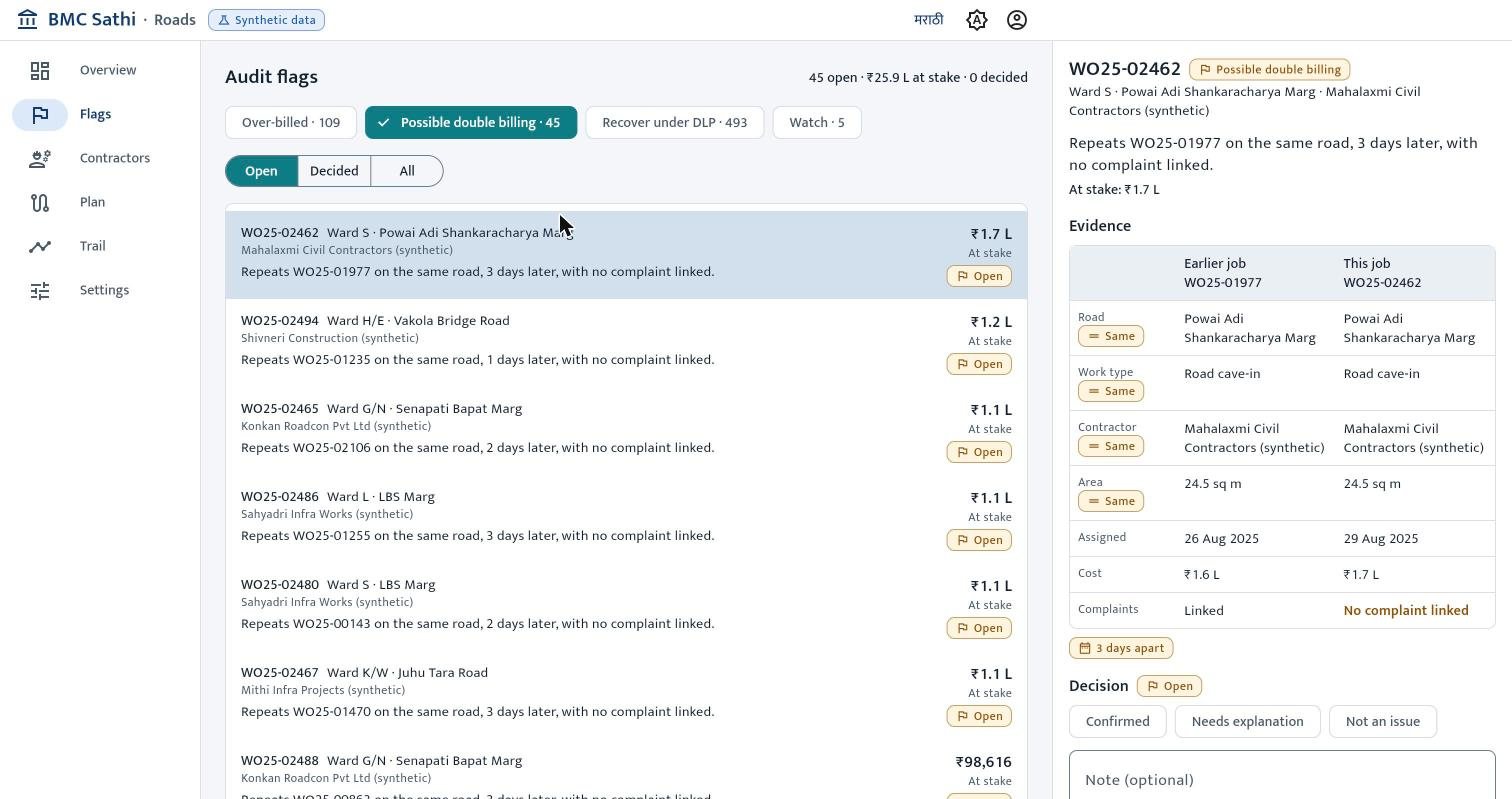
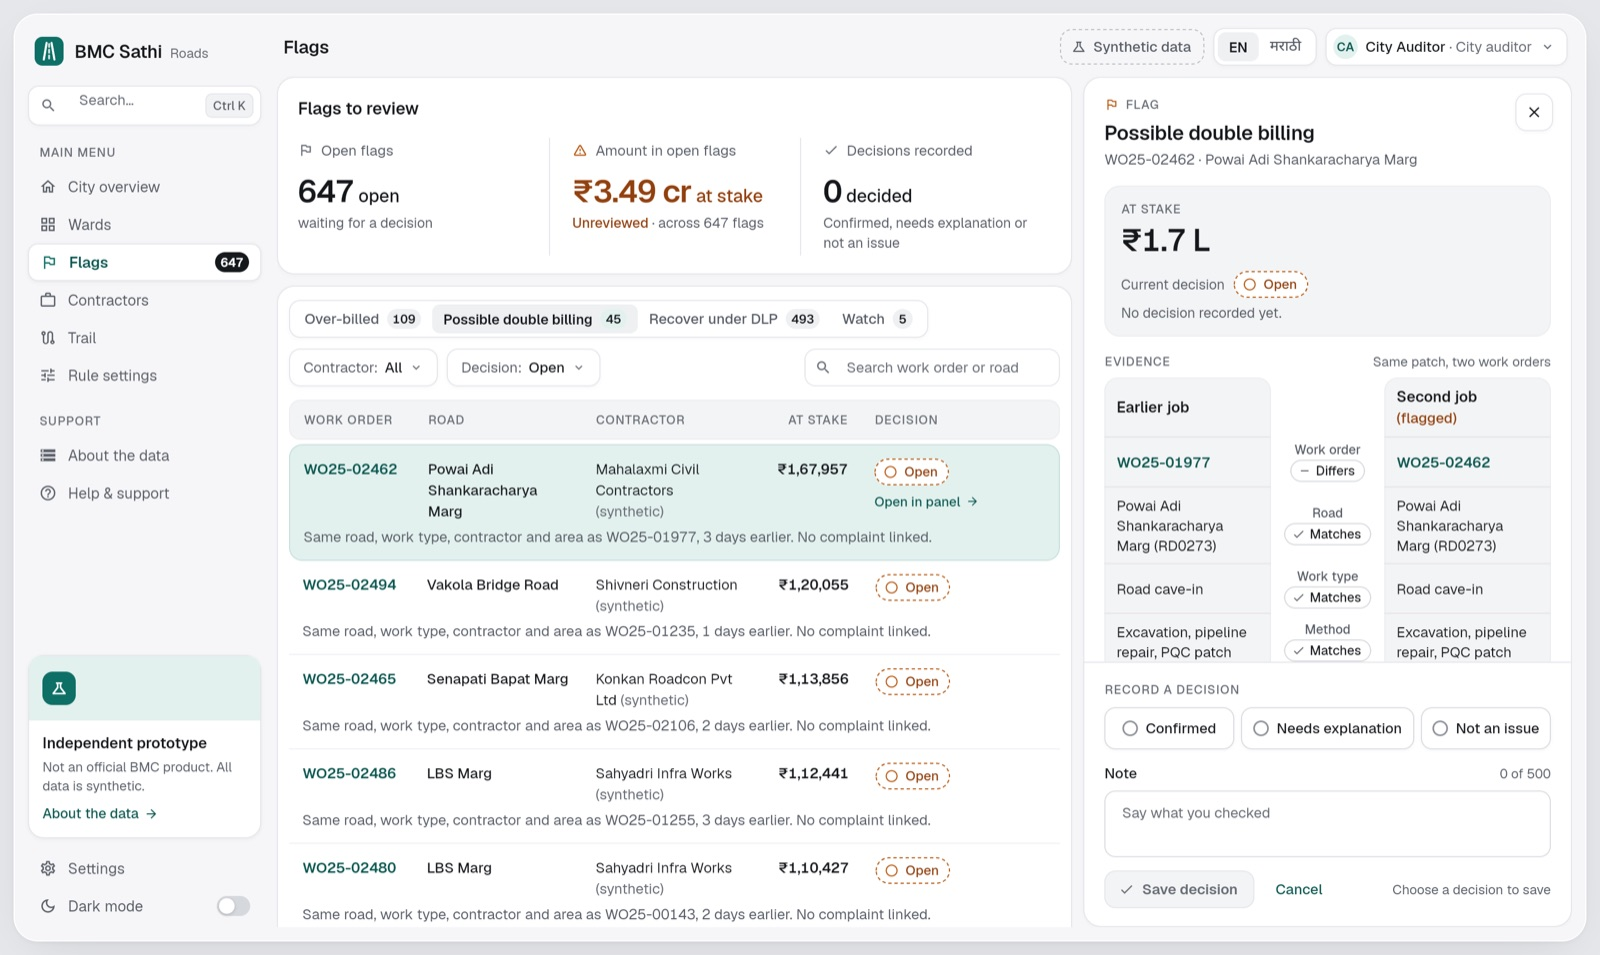
README: live demo, deployment section, fresh screenshots of the Works design

Changed region(s): [[0.0, 0.0, 1.0, 1.0]]

diff --git a/README.md b/README.md
@@ -6,11 +6,15 @@ Follow each rupee of Mumbai's monsoon road spend, from complaint to repair to ou
 
 > **Note:** Independent prototype, not an official BMC product. All data in this repository is synthetic.
 
+**Live demo: [bmc-sathi.onrender.com](https://bmc-sathi.onrender.com)**. Tap a demo account on the sign-in page; no password needed.
+It runs on Render's free plan, so the first visit after a quiet spell takes 30 to 50 seconds to wake up.
+
 ![City overview: budget, spend, open flags and wards over budget](docs/screenshots/overview.jpg)
 
 ## Table of contents
 
 - [About](#about)
+- [Live demo](#live-demo)
 - [Getting started](#getting-started)
 - [Usage](#usage)
 - [Architecture](#architecture)
@@ -18,6 +22,7 @@ Follow each rupee of Mumbai's monsoon road spend, from complaint to repair to ou
 - [Database](#database)
 - [API reference](#api-reference)
 - [Development](#development)
+- [Deployment](#deployment)
 - [Known limits](#known-limits)
 - [Contributing](#contributing)
 - [License](#license)
@@ -52,9 +57,27 @@ have already computed; it does not decide what is flagged.
 |---|---|
 | Web app | Flutter (Dart SDK ^3.13.1), flutter_riverpod 3.5, go_router 18.1, dio 5.11, intl 0.20, flutter_map 8.3 |
 | API | Node.js, Express 5.3, TypeScript 7.0, Zod 4.6 |
-| Data | PostgreSQL 17 (Docker), Prisma 6.19 |
+| Data | PostgreSQL 17 (Docker locally, Neon in production), Prisma 6.19 |
 | AI | @anthropic-ai/sdk 1.12 (`claude-haiku-5-5` for the pipeline, `claude-sonnet-5-5` for Ask and summaries) |
+| Hosting | Render web service (API and web app on one URL), Neon Postgres |
 | Tests | Vitest 4.1 with supertest (API), flutter_test (web) |
+
+---
+
+## Live demo
+
+[bmc-sathi.onrender.com](https://bmc-sathi.onrender.com) runs the same code and data as this repository.
+
+| Sign in as | To see |
+|---|---|
+| City auditor | The city overview, every ward, the full flag queue and rule settings |
+| Ward officer · Ward E | One ward's money trail, its flags, and the New record form |
+| Citizen | The public view: money trail, scorecards, plan and trail |
+
+![Sign-in page with the three demo accounts](docs/screenshots/login.jpg)
+
+Anything you change on the live site (a flag decision, a setting, a new record) is saved to the shared demo
+database and seen by the next visitor.
 
 ---
 
@@ -145,9 +168,9 @@ flutter run -d web-server --web-port 5173 --web-hostname localhost \
 
    ![Ward money trail with a written summary](docs/screenshots/ward-money-trail.jpg)
 
-3. **Flags → Possible double billing**: two jobs side by side, with the fields that match. Record a decision.
+3. **Flags → Possible double billing**: the queue on the left, and the two jobs side by side on the right with the fields that match. Record a decision.
 
-   ![Double-billing evidence: two jobs on the same road, three days apart](docs/screenshots/flag-evidence.jpg)
+   ![Flag queue with the double-billing evidence panel: two jobs on the same road, three days apart](docs/screenshots/flag-evidence.jpg)
 
 4. **Contractors**: three measures against similar jobs.
 
@@ -158,7 +181,13 @@ flutter run -d web-server --web-port 5173 --web-hostname localhost \
    ![Next-rupee plan with a score breakdown](docs/screenshots/plan.jpg)
 
 6. **Settings** (auditor): change a threshold or risk weight. Flags, scorecards and the plan update at once.
+
+   ![Rule settings: billing thresholds and the six risk weights](docs/screenshots/settings.jpg)
+
 7. **New record** (ward officer): enter a work order billed well above the rate card; it is flagged on save.
+
+   ![New record form for a ward officer](docs/screenshots/intake.jpg)
+
 8. **Trail**: search a complaint id, work order id, road or locality.
 
    ![Trail: translated complaints, the issue and matching social posts](docs/screenshots/trail.jpg)
@@ -218,8 +247,9 @@ recorded decision or a changed setting takes effect on the next read without re-
 │   │   │   ├── modules/           # one router per API area
 │   │   │   ├── middleware/        # sign-in and role checks
 │   │   │   ├── lib/               # db client, errors, geometry, shared rules, Claude helper
-│   │   │   ├── app.ts             # Express app
+│   │   │   ├── app.ts             # Express app; also serves public/
 │   │   │   └── server.ts          # entry point
+│   │   ├── public/                # release build of the web app, served in production
 │   │   └── test/api.test.ts       # API tests against the loaded database
 │   └── web/
 │       ├── lib/
@@ -383,13 +413,54 @@ To use the restored copy, change the database name at the end of `DATABASE_URL` 
 
 ---
 
+## Deployment
+
+The live demo is one Render web service plus a Neon Postgres database. The API serves the web app from
+`apps/api/public`, so both share one URL and no CORS setting is needed.
+
+```mermaid
+flowchart LR
+  B[Browser] --> R[Render web service<br/>Express API + Flutter build]
+  R --> N[(Neon Postgres 17)]
+  R -. Ask, summaries .-> C[Claude API]
+```
+
+**Render service settings**
+
+| Setting | Value |
+|---|---|
+| Root directory | `apps/api` |
+| Build command | `npm ci && npx prisma generate` |
+| Start command | `npx tsx src/server.ts` |
+| Branch | `main`, auto-deploy on every push |
+| Environment | `DATABASE_URL` (Neon pooled), `DIRECT_URL` (Neon direct), `JWT_SECRET`, `ANTHROPIC_API_KEY`, `NODE_VERSION=22` |
+
+**Database.** The Neon database is a copy of a fully loaded local one, so the pipeline never runs on Render:
+
+```bash
+docker exec bmc-sathi-db pg_dump -U sathi -d sathi --no-owner --no-privileges > sathi.sql
+docker run --rm -i postgres:17 psql "<neon direct url>" -v ON_ERROR_STOP=1 < sathi.sql
+```
+
+**Web app.** Render cannot build Flutter, so the release build is committed. After any change under `apps/web`, rebuild
+it with a same-origin API path and copy it into the API before pushing:
+
+```bash
+cd apps/web
+flutter build web --release --dart-define=API_BASE=/api/v1
+rm -rf ../api/public && cp -R build/web ../api/public
+```
+
+---
+
 ## Known limits
 
 - Scores and matches depend on the synthetic dataset; none of it has been run on real BMC data.
 - Claude's reading of complaints (translation, category, severity) and its matching of social posts were spot-checked, not measured against a labelled set.
 - `npm run db:summarise` is not part of `db:setup`. Summaries are not rewritten automatically when figures change; the page marks them as written before recent changes until it is run again.
 - The Ask rate limit (10 questions a minute per user) is kept in the API's memory, so it resets on restart and is not shared between instances.
-- There is no deployment configuration; only the local Docker database is set up.
+- The live demo is on Render's free plan: it sleeps when idle, and all visitors share one database, so decisions and settings changed there stay changed.
+- The web build in `apps/api/public` is updated by hand (see [Deployment](#deployment)); a push that changes only `apps/web` does not change the live site.
 - The API has no linter configured, and no CI runs the tests.
 - The overview map uses real BMC ward boundaries (`apps/web/assets/geo/wards.geojson`) over OpenStreetMap's public tile server, so it needs a network connection, and that server is not meant for heavy use. Everything plotted on it (spend, flags) is synthetic. `data/wards.geojson` is the challenge's simplified file and is no longer drawn.
 
